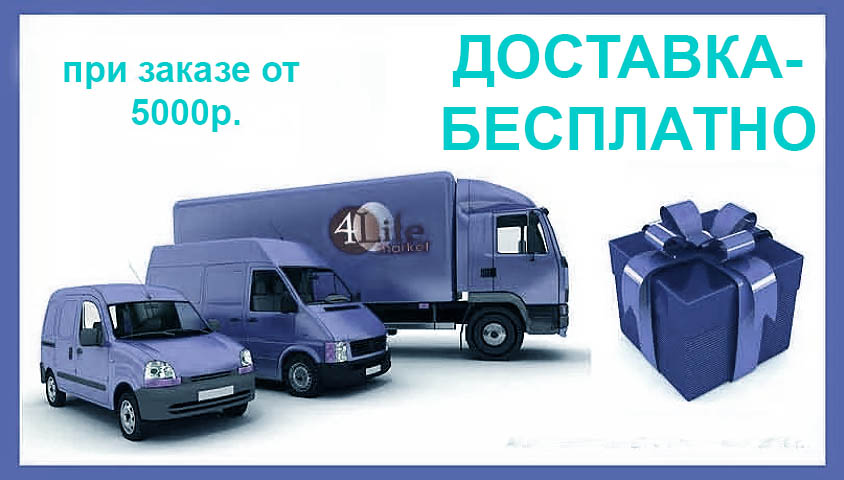
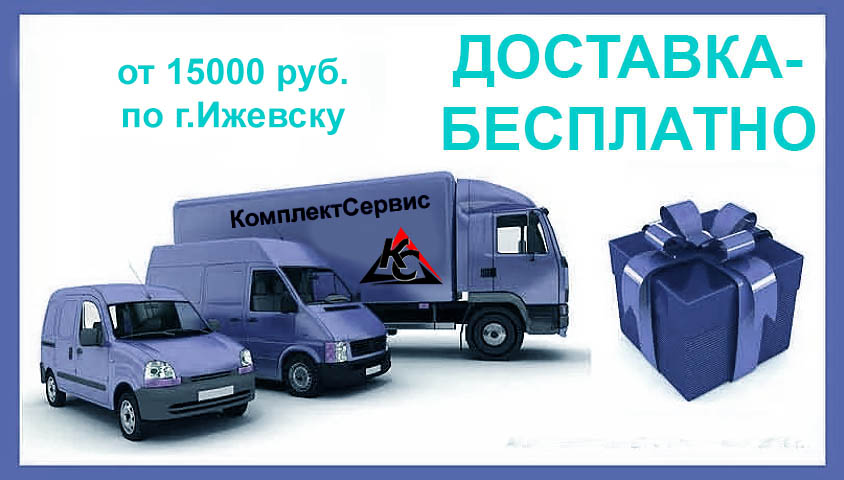
Changed images

Changed region(s): [[0.0616, 0.125, 0.4313, 0.2812], [0.2464, 0.4062, 0.5237, 0.5938]]

diff --git a/index.html b/index.html
@@ -326,18 +326,18 @@
 
 		<div id="promo" class="tabcontent">
 		  	<h3>АКЦИИ</h3>
-		  	<img id="promo-img" src="img/balloons.png" width="100" height="100" alt="sale"> 
-		  	<p>Акция! Распродажа зимнего ассортимента! Скидка 25%.</p>
-		  	<p>Акция продлится до 1 апреля. Количество товара ограничено.</p>
+		  	<img id="promo-img" src="img/sale.png" width="100" height="100" alt="sale"> 
+		  	<p>Акция! При покупке товаров на сумму свыше 15000 рублей доставка бесплатна по городу Ижевску.</p>
+		  	<p></p>
 		  	<img id="promo-img__big" src="img/sale.jpg" width="844" height="480" alt="sale">
-		  		<p>Акция! Распродажа зимнего ассортимента! Скидка 25%.</p>
-		  	<p>Акция продлится до 1 апреля. Количество товара ограничено.</p>
-		  		<p>Акция! Распродажа зимнего ассортимента! Скидка 25%.</p>
-		  	<p>Акция продлится до 1 апреля. Количество товара ограничено.</p>
-		  		<p>Акция! Распродажа зимнего ассортимента! Скидка 25%.</p>
-		  	<p>Акция продлится до 1 апреля. Количество товара ограничено.</p>
-		  		<p>Акция! Распродажа зимнего ассортимента! Скидка 25%.</p>
-		  	<p>Акция продлится до 1 апреля. Количество товара ограничено.</p>
+		  		<p>В другие города России доставка осуществляется транспортной компанией.</p>
+		  	<p>Акция продлится до 1 сентября 2021 года.</p>
+		  	<p></p>
+		  	<p></p>
+		  	<p></p>
+		  	<p></p>
+		  	<p></p>
+		  	<p></p>
 
 		  	<div class="bottom">
 				<div class="bottom__left">
